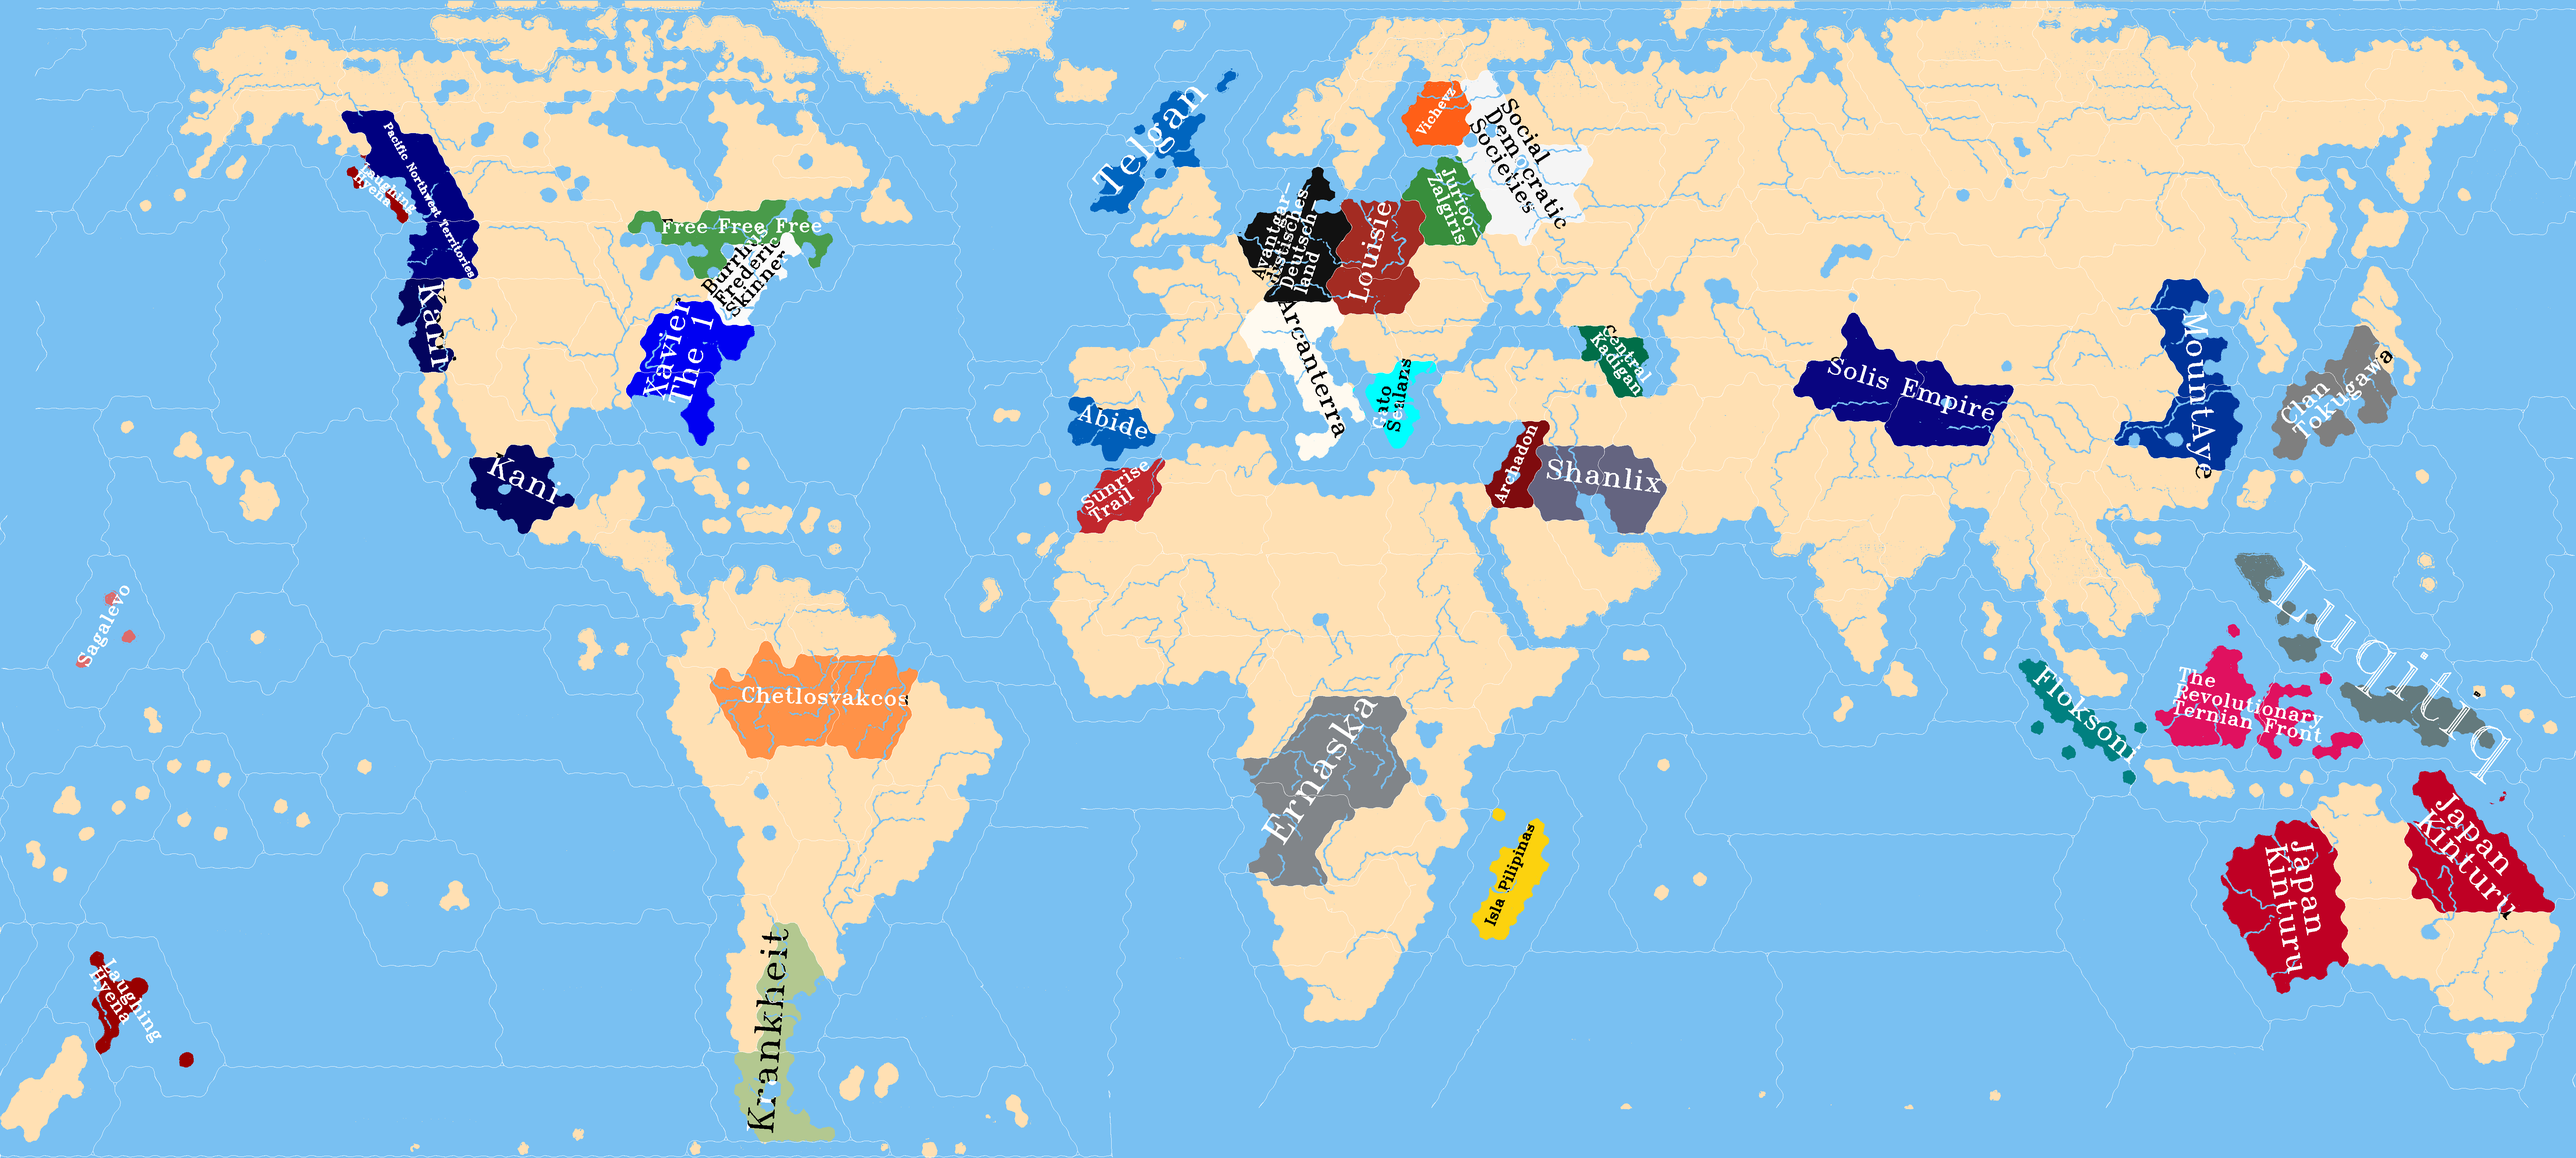
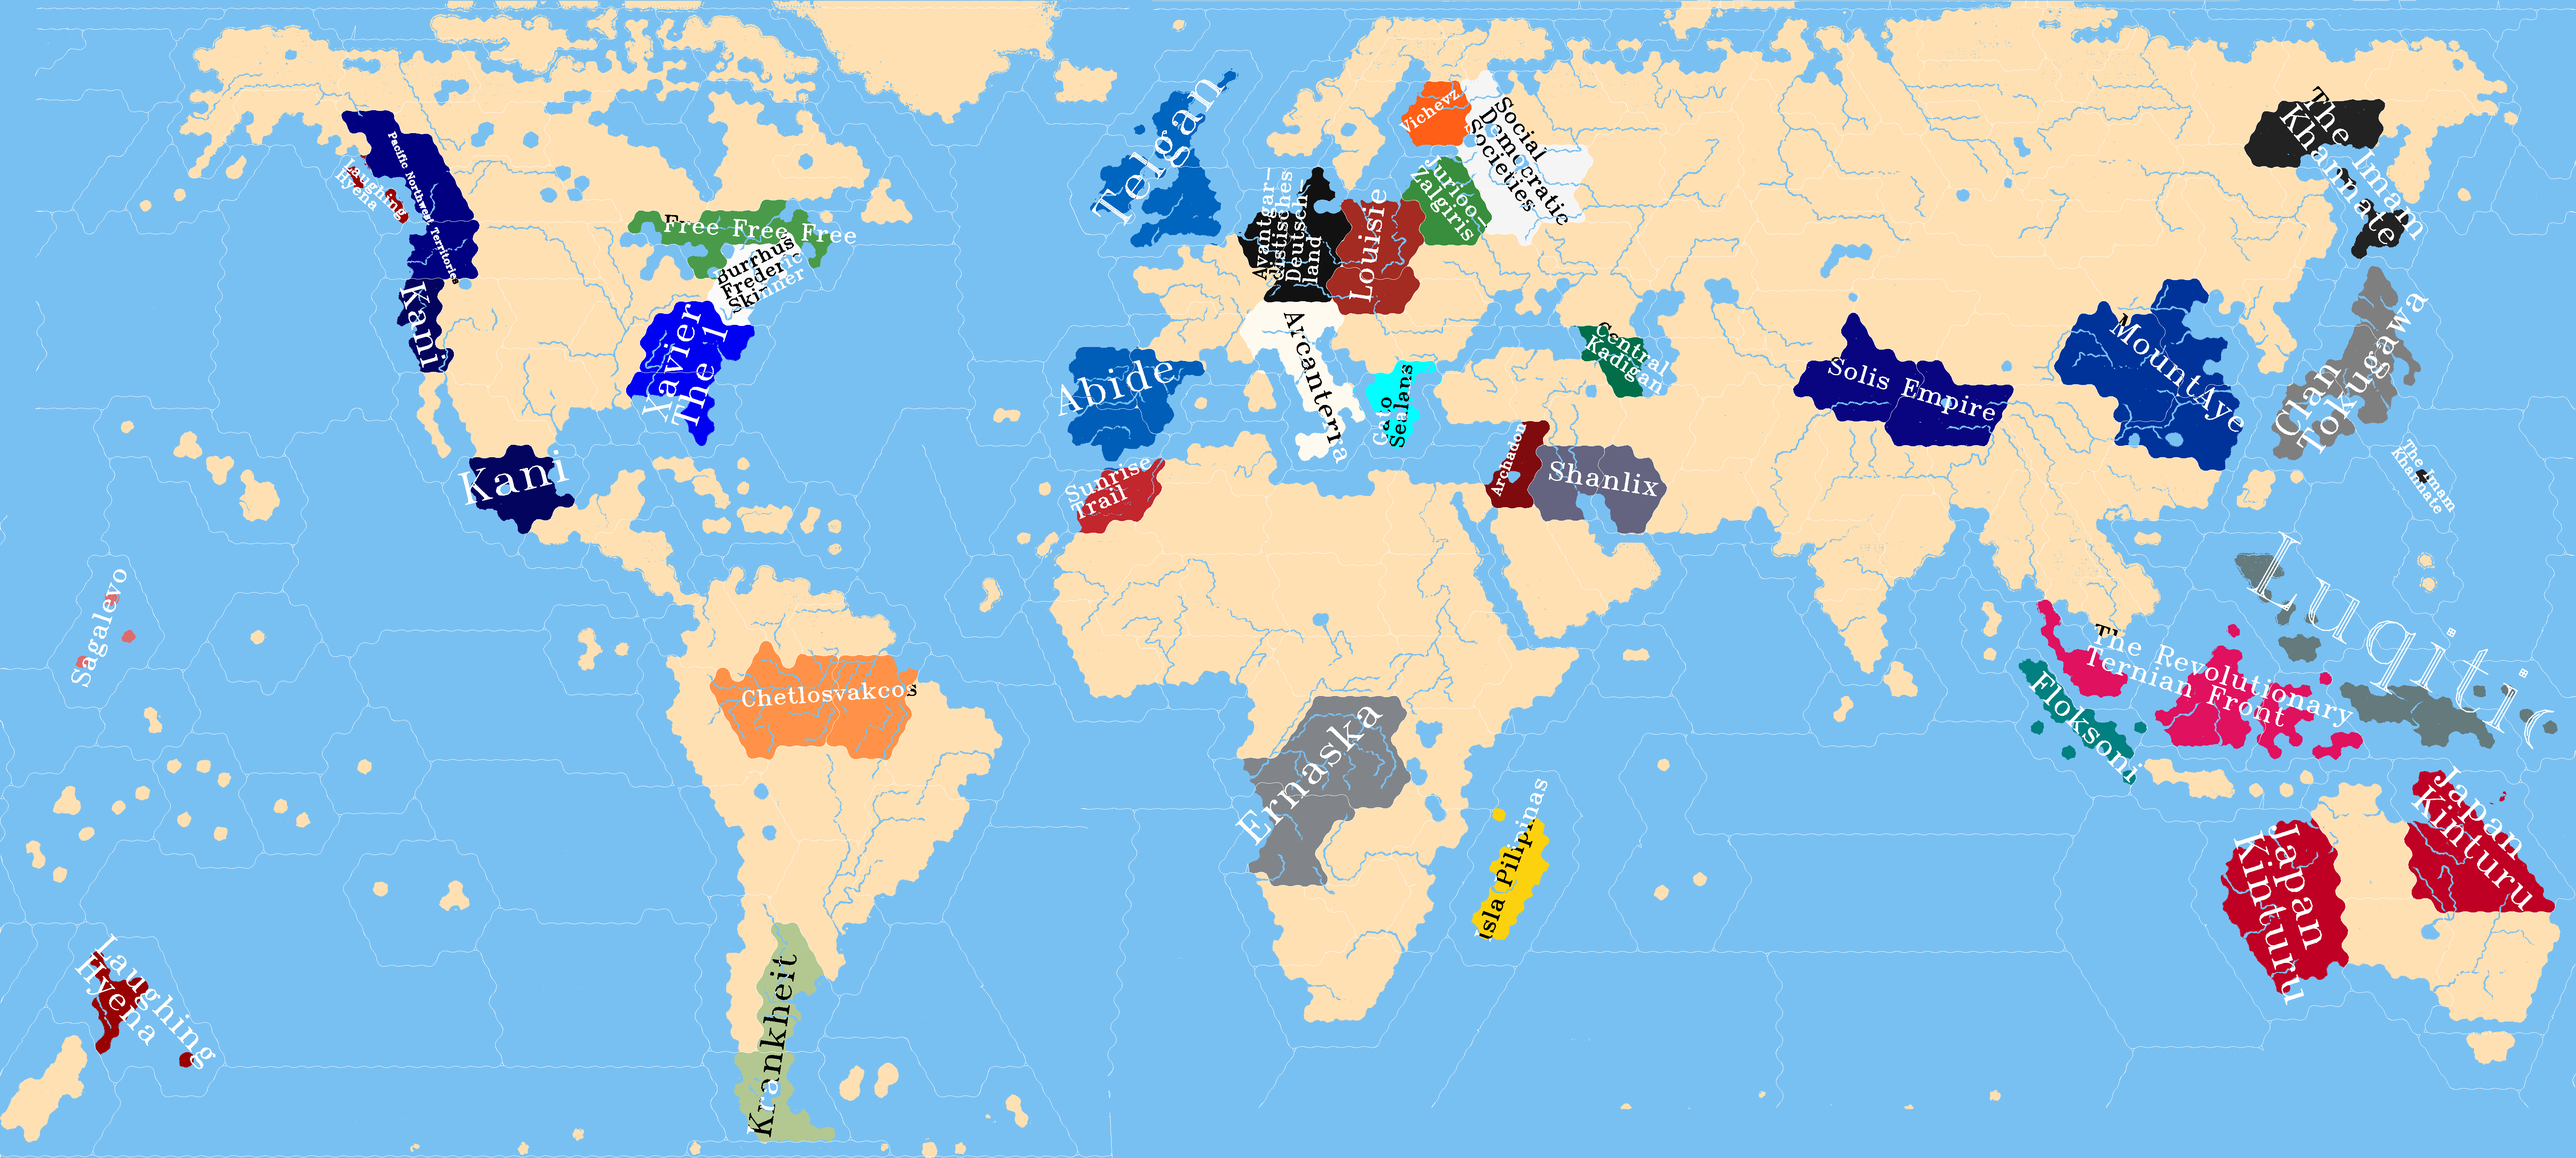
expand Telgan; expand Luqitiq; expand Clan Tokugawa; add The Imam Khannate; expand MountAye; expand The Revolutionary Ternian Front;

diff --git a/scripts/paint_map.py b/scripts/paint_map.py
@@ -46,8 +46,8 @@ for n,name in enumerate(registered["STATE"].unique()):
     # Because we don't know if their territories are connected:
     nation_territories_label = measure.label(nation_territories)
     for prop_territory_all in measure.regionprops(nation_territories_label):
-        prop_territory_land = measure.regionprops(util.img_as_ubyte(np.logical_and(mask_lands,(nation_territories_label==prop_territory_all.label))))[0]
-        angle = prop_territory_land.orientation * 180 / np.pi - 90
+        # prop_territory_land = measure.regionprops(util.img_as_ubyte(np.logical_and(mask_lands,(nation_territories_label==prop_territory_all.label))))[0]
+        angle = prop_territory_all.orientation * 180 / np.pi - 90
         if angle < -90:
             angle = 180 + angle
 
@@ -57,11 +57,11 @@ for n,name in enumerate(registered["STATE"].unique()):
         longest = sorted(words,key=lambda x:len(x),reverse=True)[0]
 
         (name_width,name_height),_ = cv2.getTextSize(longest,fontFace=cv2.FONT_HERSHEY_TRIPLEX,fontScale=1,thickness=1)
-        scale_x = 0.8 * prop_territory_land.axis_major_length / name_width
-        scale_y = 0.8 * prop_territory_land.axis_minor_length / name_height / n_words
+        scale_x = 0.8 * prop_territory_all.axis_major_length / name_width
+        scale_y = 0.8 * prop_territory_all.axis_minor_length / name_height / n_words
         scale = min([scale_x,scale_y])
 
-        y,x = prop_territory_land.centroid
+        y,x = prop_territory_all.centroid
         x -= 0.45 * name_width * scale * np.cos(angle/180*np.pi)
         y += 0.45 * name_width * scale * np.sin(angle/180*np.pi)
         x = int(x)
